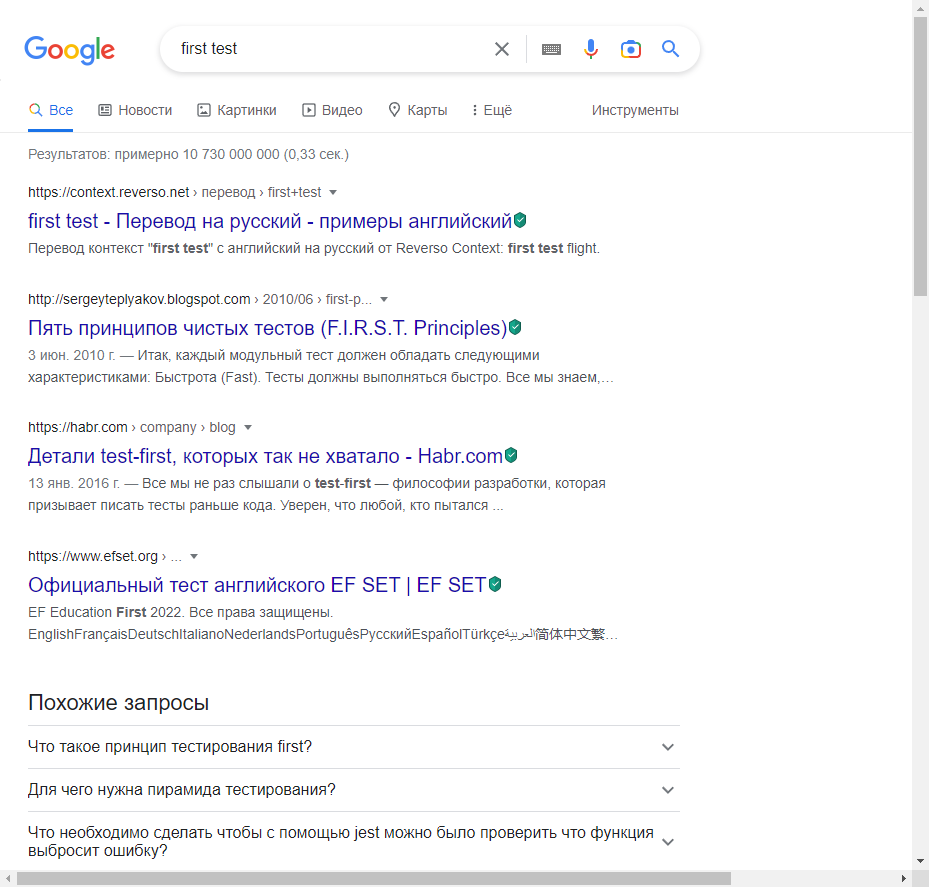
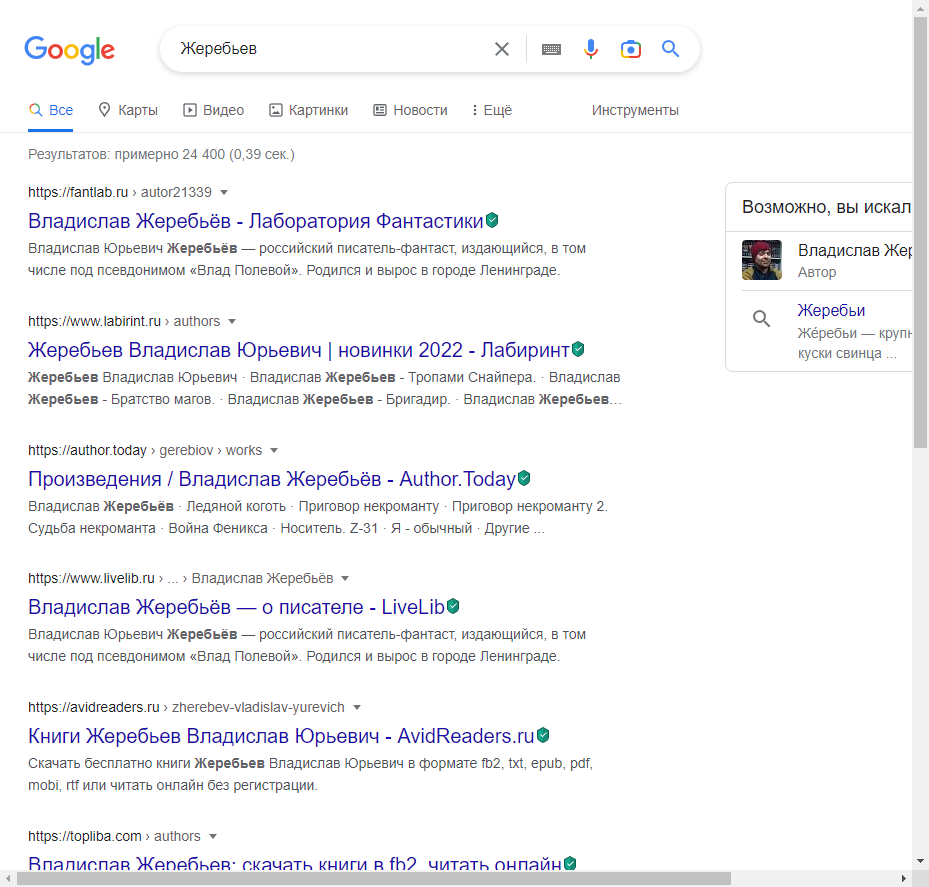
merge origin/master #selenium ui

diff --git a/test_selenium_simple.py b/test_selenium_simple.py
@@ -18,7 +18,7 @@ def test_search_example(selenium):
 
     # Enter the text for search:
     search_input.clear()
-    search_input.send_keys('first test')
+    search_input.send_keys('Жеребьев')
 
     time.sleep(5)  # just for demo purposes, do NOT repeat it on real projects!
 
